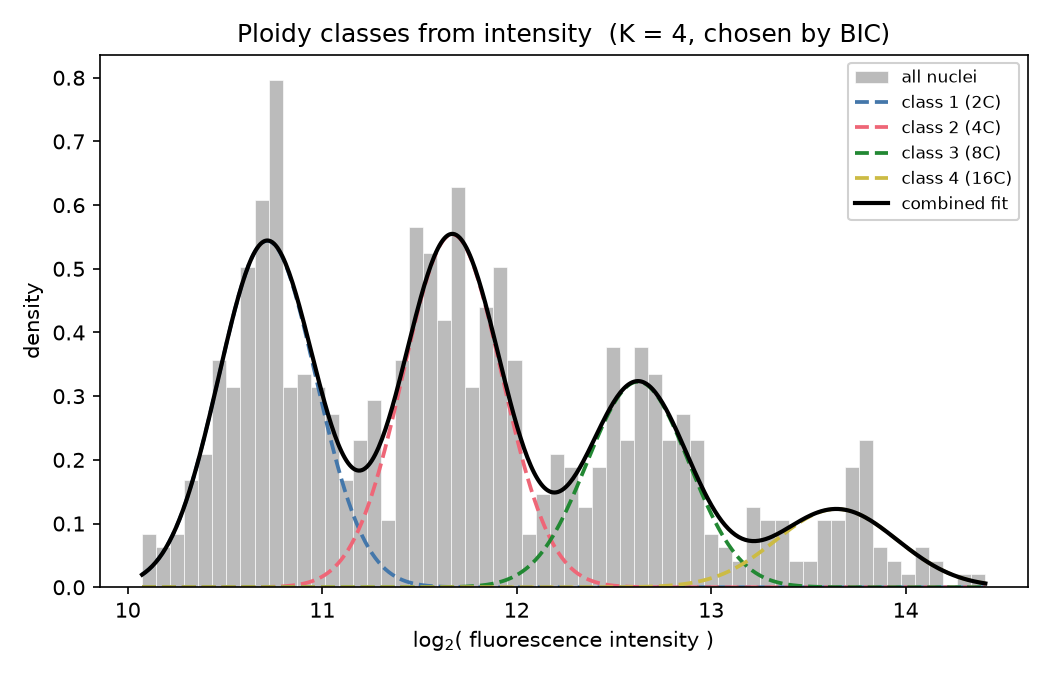
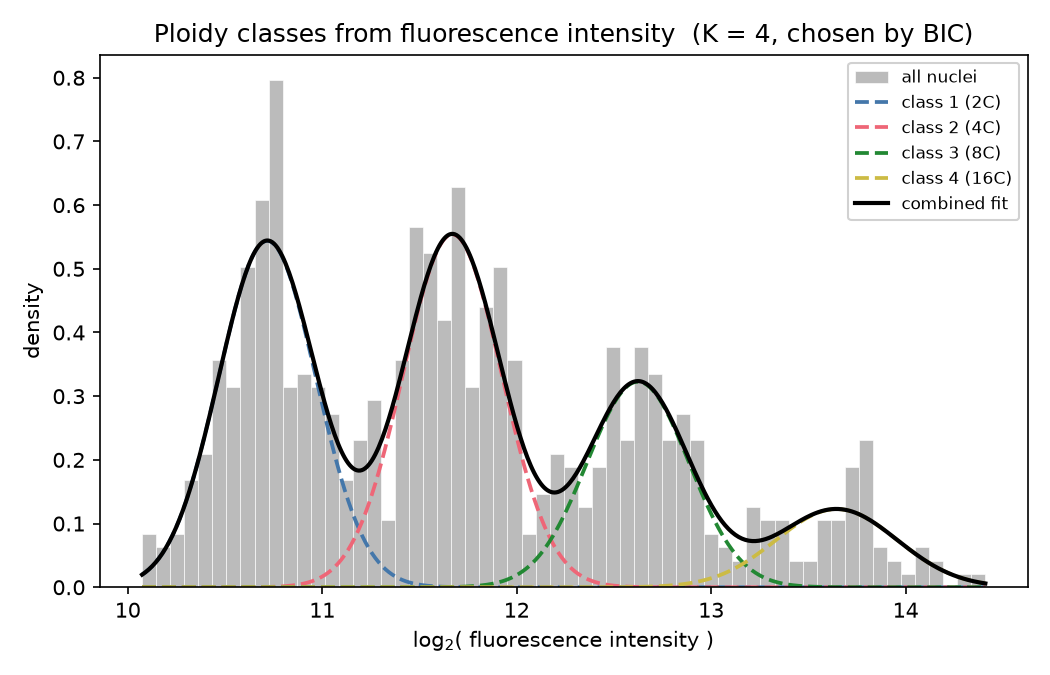
ploidy_pipeline: add --label so size-based runs read correctly
Figures and titles were hard-coded to "fluorescence intensity". For size-based
ploidy (the recommended readout for melanized cells), that mislabels the axes.
--label sets the measured-quantity name on the figure axes/titles (e.g.
--label "nuclear size"), so a size run reads "Ploidy classes from nuclear size"
and "log2( nuclear size )". Default unchanged; demo output unaffected.

Changed region(s): [[0.1524, 0.0311, 0.9448, 0.0622]]

diff --git a/ispy-ploidy-pipeline/ploidy_pipeline.py b/ispy-ploidy-pipeline/ploidy_pipeline.py
@@ -116,6 +116,9 @@ def parse_args():
                    help="Largest number of classes to try when auto-choosing.")
     p.add_argument("--base-ploidy", type=int, default=2,
                    help="Ploidy of the dimmest class, for labelling (2 => 2C).")
+    p.add_argument("--label", default="fluorescence intensity",
+                   help="Name of the measured quantity, used on figure axes/titles "
+                        "(e.g. 'nuclear size' for a size-based run).")
     p.add_argument("--mixed-fold-threshold", type=float, default=1.5,
                    help="A cell is only called 'confidently mixed' if its "
                         "brightest nucleus is at least this many times brighter "
@@ -304,8 +307,8 @@ def within_cell_analysis(df, cell_col, intensity_col, fold_threshold=1.5):
 # ---------------------------------------------------------------------------
 # 5. Figures
 # ---------------------------------------------------------------------------
-def fig_intensity_gmm(fit, base_ploidy, path):
-    """Histogram of log2(intensity) overlaid with the fitted ploidy peaks."""
+def fig_intensity_gmm(fit, base_ploidy, path, label="fluorescence intensity"):
+    """Histogram of log2(measured value) overlaid with the fitted ploidy peaks."""
     x = fit["x_log2"]
     gmm, k = fit["gmm"], fit["k"]
 
@@ -326,9 +329,9 @@ def fig_intensity_gmm(fit, base_ploidy, path):
                 label=f"class {rank} ({ploidy_label(rank, base_ploidy)})")
     ax.plot(grid.ravel(), total, "k-", lw=2.0, label="combined fit")
 
-    ax.set_xlabel("log$_2$( fluorescence intensity )")
+    ax.set_xlabel(f"log$_2$( {label} )")
     ax.set_ylabel("density")
-    ax.set_title(f"Ploidy classes from intensity  (K = {k}, chosen by BIC)")
+    ax.set_title(f"Ploidy classes from {label}  (K = {k}, chosen by BIC)")
     ax.legend(fontsize=8, framealpha=0.9)
     fig.tight_layout()
     fig.savefig(path, dpi=150)
@@ -373,7 +376,7 @@ def fig_class_percentages(df, fit, base_ploidy, path):
     plt.close(fig)
 
 
-def fig_within_cell(per_cell, headline, path):
+def fig_within_cell(per_cell, headline, path, label="fluorescence intensity"):
     """The key figure for the multinucleate question, in two panels."""
     multi = per_cell[per_cell["n_nuclei"] >= 2]
     fig, (axL, axR) = plt.subplots(1, 2, figsize=(11, 4.4))
@@ -405,9 +408,9 @@ def fig_within_cell(per_cell, headline, path):
     axR.axvline(headline["fold_threshold"], color="#555555", ls="--", lw=1)
     axR.text(headline["fold_threshold"] + 0.02, axR.get_ylim()[1] * 0.55,
              "mixed-call\ncutoff", fontsize=8, color="#555555")
-    axR.set_xlabel("brightest / dimmest nucleus within a cell")
+    axR.set_xlabel(f"max / min {label} of nuclei within a cell")
     axR.set_ylabel("number of cells")
-    axR.set_title("Within-cell intensity range (no model, no threshold)")
+    axR.set_title(f"Within-cell {label} range (no model, no threshold)")
     axR.legend()
 
     fig.suptitle("Do the nuclei inside a cell share a ploidy?", fontsize=13)
@@ -491,7 +494,7 @@ def run_one(df, label, args, outdir):
 
     # ---- write the figures ----
     fig_intensity_gmm(fit, args.base_ploidy,
-                      os.path.join(outdir, "fig1_intensity_gmm.png"))
+                      os.path.join(outdir, "fig1_intensity_gmm.png"), args.label)
     fig_model_selection(fit, os.path.join(outdir, "fig2_model_selection.png"))
     fig_class_percentages(df, fit, args.base_ploidy,
                           os.path.join(outdir, "fig3_class_percentages.png"))
@@ -499,7 +502,7 @@ def run_one(df, label, args, outdir):
     # nuclei. With --cell-col none every nucleus is its own cell, so we skip it.
     if headline["n_multinucleate"] > 0:
         fig_within_cell(per_cell, headline,
-                        os.path.join(outdir, "fig4_within_cell.png"))
+                        os.path.join(outdir, "fig4_within_cell.png"), args.label)
     else:
         print("  (no multinucleate cells -> skipping the within-cell figure)")
     if args.volume_col != "none" and args.volume_col in df.columns:
